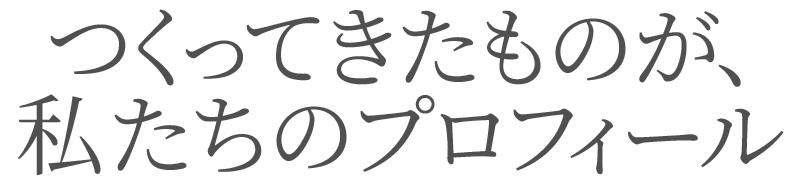
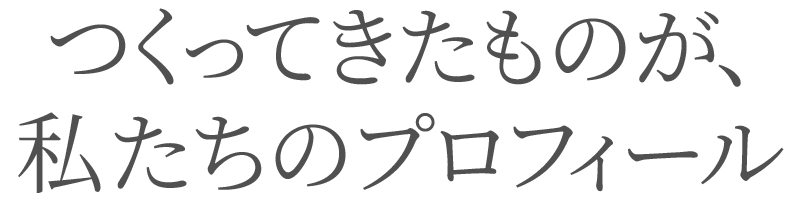
index font size ajust

diff --git a/pages/index.module.css b/pages/index.module.css
@@ -1,26 +1,11 @@
 .mainImg{
+	margin: 0 auto;
+	width: 100%;
 }
-
-.mainImg img{
-}
-
-/* .mainImg{
-	position: relative;
-  overflow: hidden;
-  width: 100%;
-  height: 480px;
-}
-
-.mainImg img{
-	position: absolute;
-  left: 50%;
-	max-width: 1280px;
-  width: 1280px;
-  height: 528px;
-  margin-left: -640px;
-} */
 
 .catchCopy {
+	margin: 2rem auto;
+	width: 24rem;
 }
 
 /* .catchCopy {

diff --git a/styles/util.module.css b/styles/util.module.css
@@ -12,7 +12,8 @@
 
 .headingLg {
 	font-family: 'Fredericka the Great', cursive;
-  margin: 0 auto 40px;
+	margin: 0 auto 40px;
+	font-size: 1.4rem;
 	text-align: center;
 	background: url(/images/borderBlack.png) repeat-x 0 50%;
 	background-size: 1px 1px;
@@ -20,7 +21,7 @@
 
 .headingLg span {
 	background: #fff;
-	padding: 0 80px;
+	padding: 0 20px;
 }
 
 .textCenter {

diff --git a/components/layout.module.css b/components/layout.module.css
@@ -30,7 +30,7 @@
 
 .mainNav a {
 	margin: 0 0.75rem;
-	font-size: 0.875rem;
+	font-size: 0.9rem;
 	font-weight: 400;
 	color: rgba(80, 80, 80, 1);
 }
